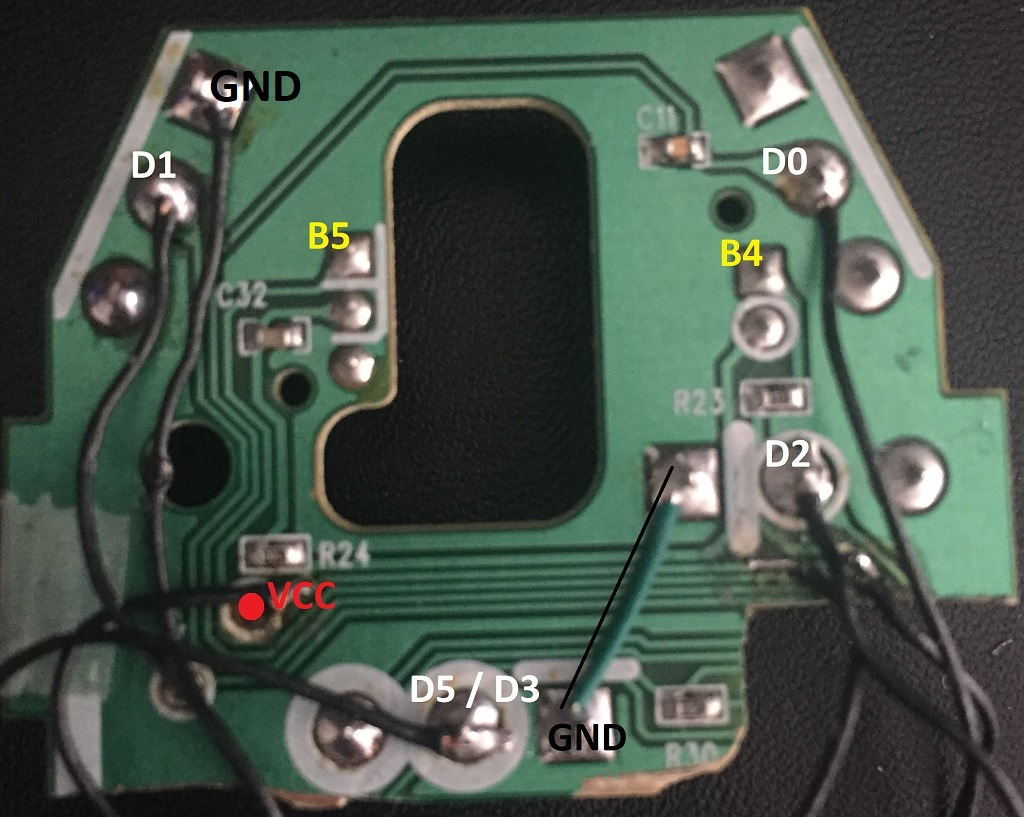
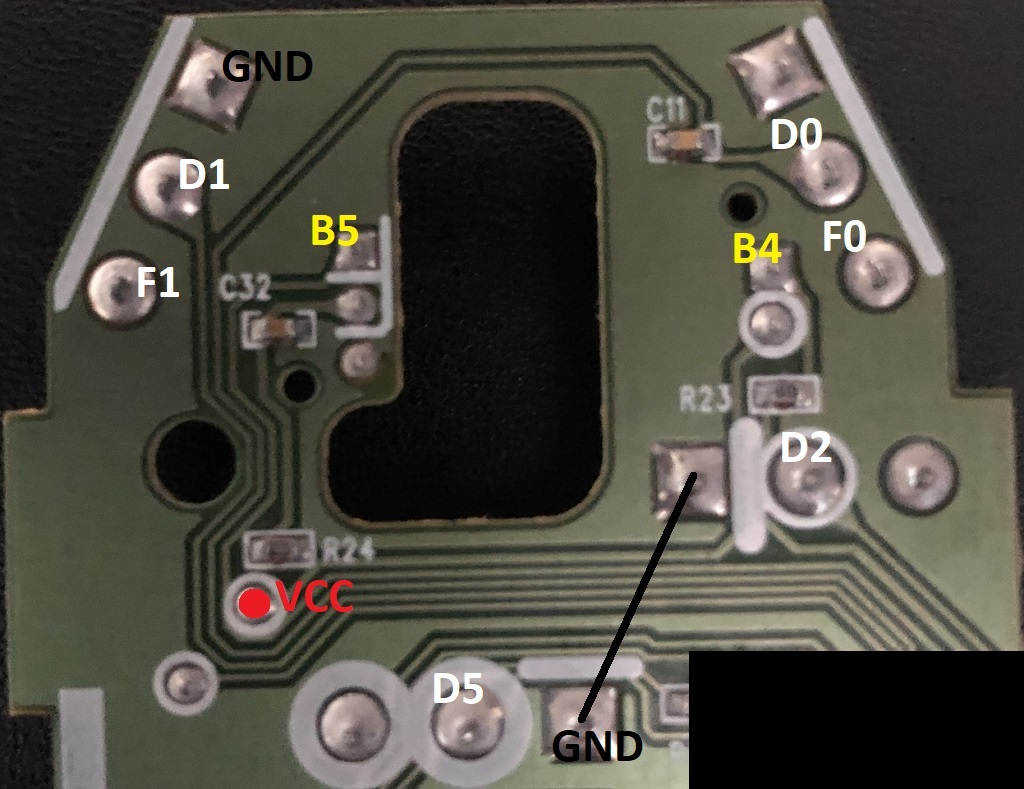
add hardware debouncing for left and right click

diff --git a/main.c b/main.c
@@ -38,6 +38,7 @@ union motion_data {
 static void pins_init(void)
 {
 	PORTD |= 0b00111111; // L, R, M, RSB, FSB, DPI pullup inputs on D0, D1, D2, D3, D4, D5. (active low)
+	PORTF |= 0b00000011;
 
 	EICRA = 0b01010101; // generate interrupt request on any edge of D0/D1/D2/D3
 	EIMSK = 0; // but don't enable any actual interrupts
@@ -195,6 +196,7 @@ static inline int8_t whl_read(void)
 }
 
 uint8_t EEMEM stored_dpi_index = 1;
+uint8_t btn_dbncd = 0x00;
 
 int main(void)
 {
@@ -331,7 +333,9 @@ int main(void)
 		//           0 |            1 |         =0 |          =1
 		//           1 |            0 |         ++ | (time < DEBOUNCE_TIME)
 		//           1 |            1 |         =0 |          =1
-		uint8_t btn_dbncd = 0x00;
+		// uint8_t btn_dbncd = 0x00;
+		btn_dbncd &= ~0b00111100;
+
 		// manual loop debouncing for every button
 		#define DEBOUNCE(index) \
 		if ((btn_prev & (1<<index)) && !(btn_raw & (1<<index))) { \
@@ -342,14 +346,32 @@ int main(void)
 			btn_time[index] = 0; \
 			btn_dbncd |= btn_raw & (1<<index); \
 		}
-		DEBOUNCE(0); // L
-		DEBOUNCE(1); // R
+		// DEBOUNCE(0); // L
+		// DEBOUNCE(1); // R
 		DEBOUNCE(2); // M
 		DEBOUNCE(3); // RSB
 		DEBOUNCE(4); // FSB
 		DEBOUNCE(5); // DPI
 		
 		#undef DEBOUNCE
+		
+	// hardware debouncing
+		//+left click
+		if (!(PIND & (1 << 0))) {
+			btn_dbncd |= (1<<0);
+		}
+		//-left click
+		if (!(PINF & (1 << 0))) { 
+			btn_dbncd &= ~(1<<0);
+		}
+		//+right click
+		if (!(PIND & (1 << 1))) {
+			btn_dbncd |= (1<<1);
+		}
+		//-right click
+		if (!(PINF & (1 << 1))) {
+			btn_dbncd &= ~(1<<1);
+		}
 
 	// usb
 		// first make sure it's configured
